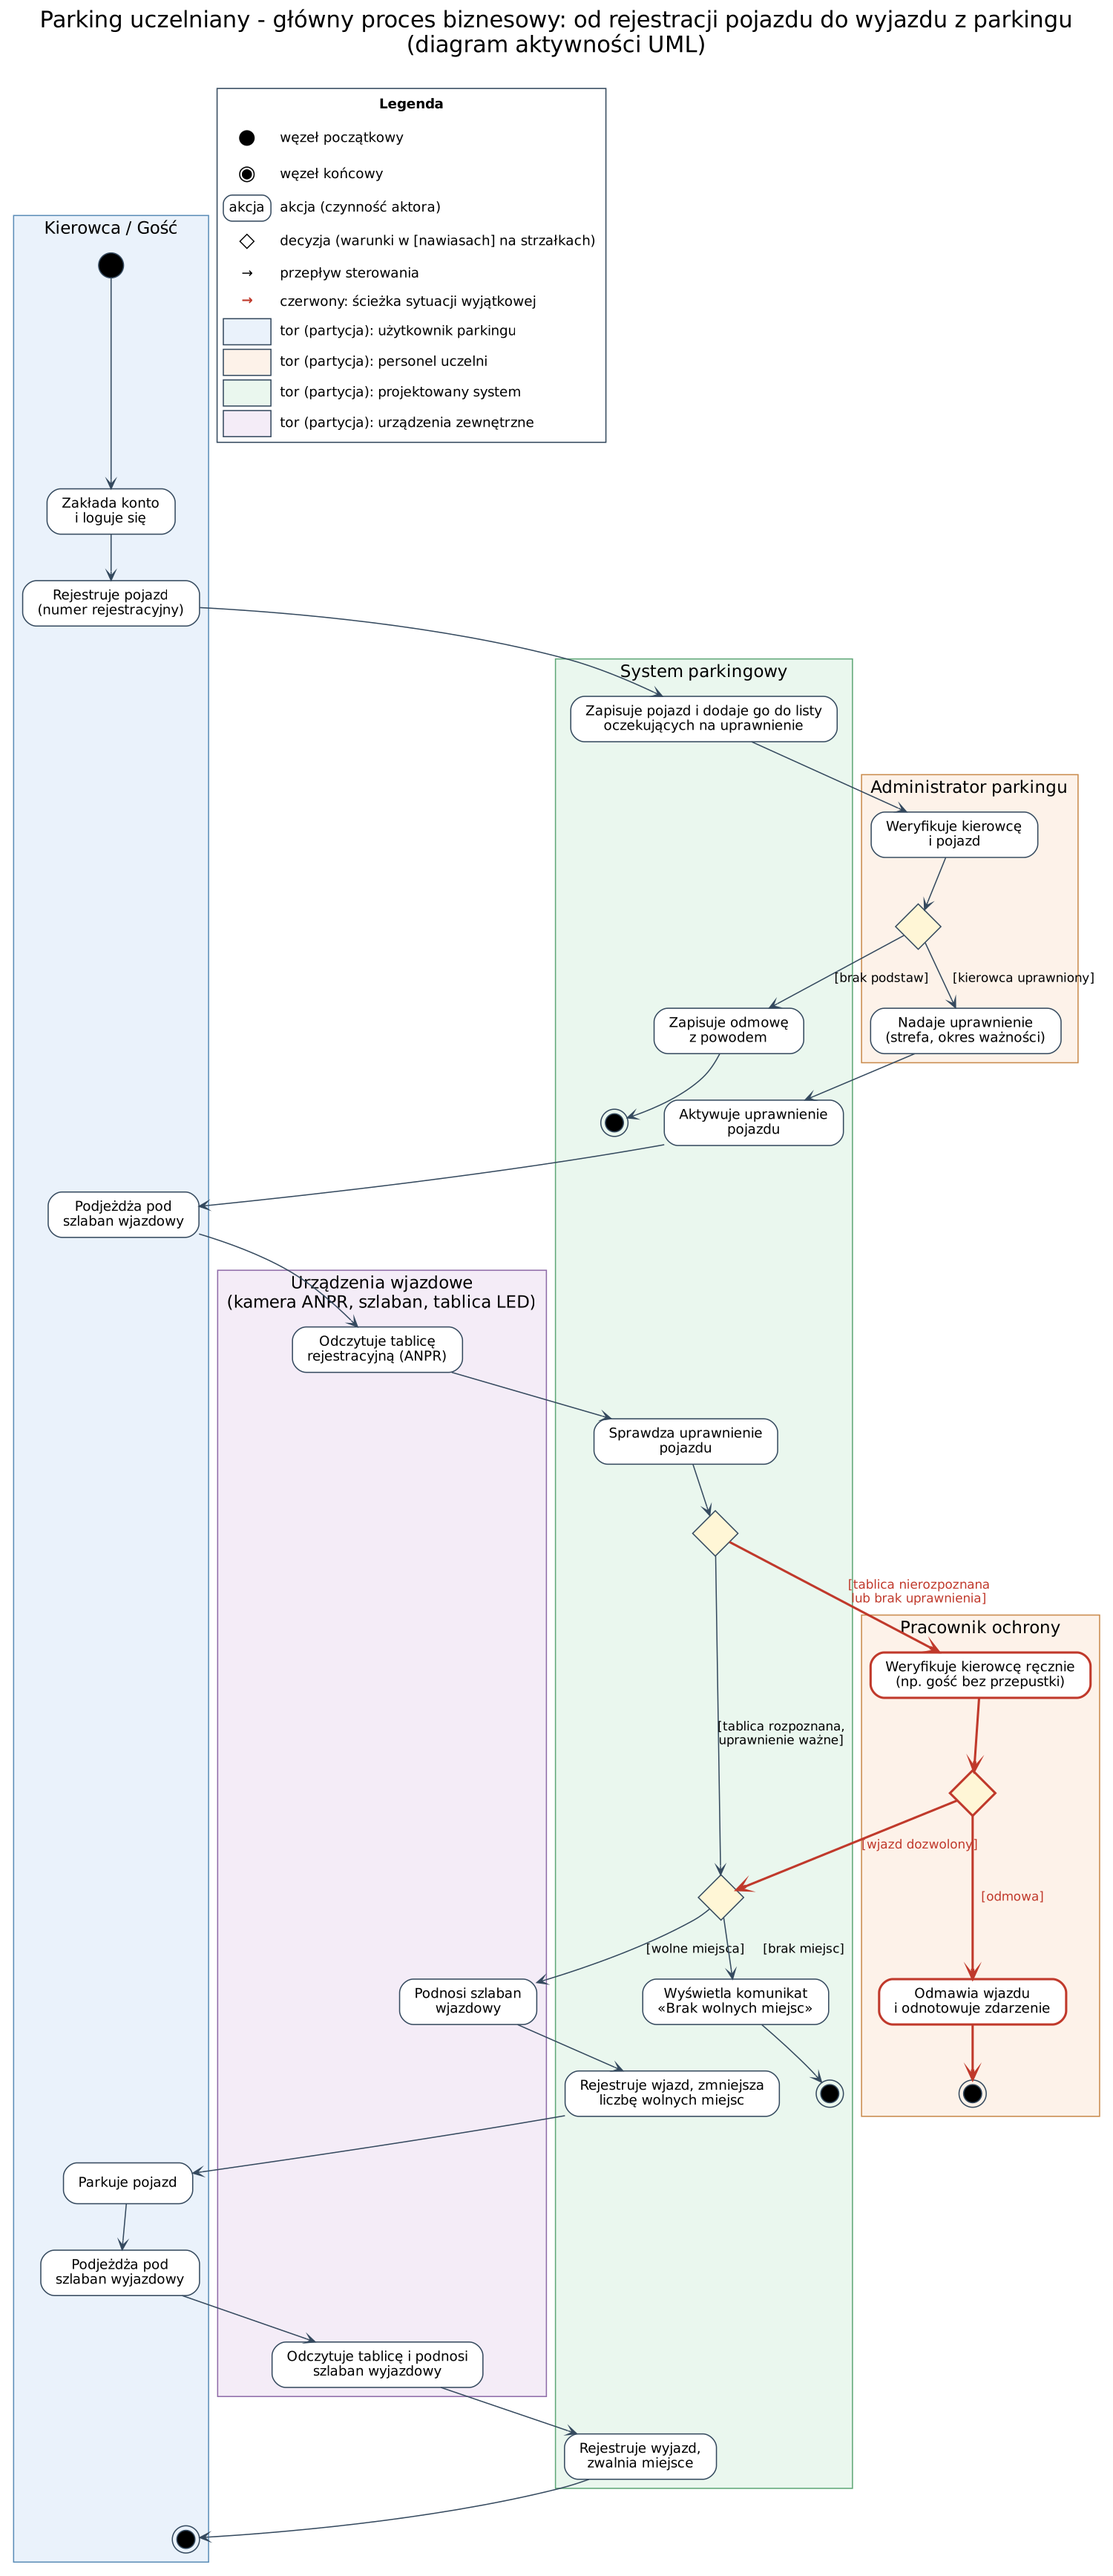
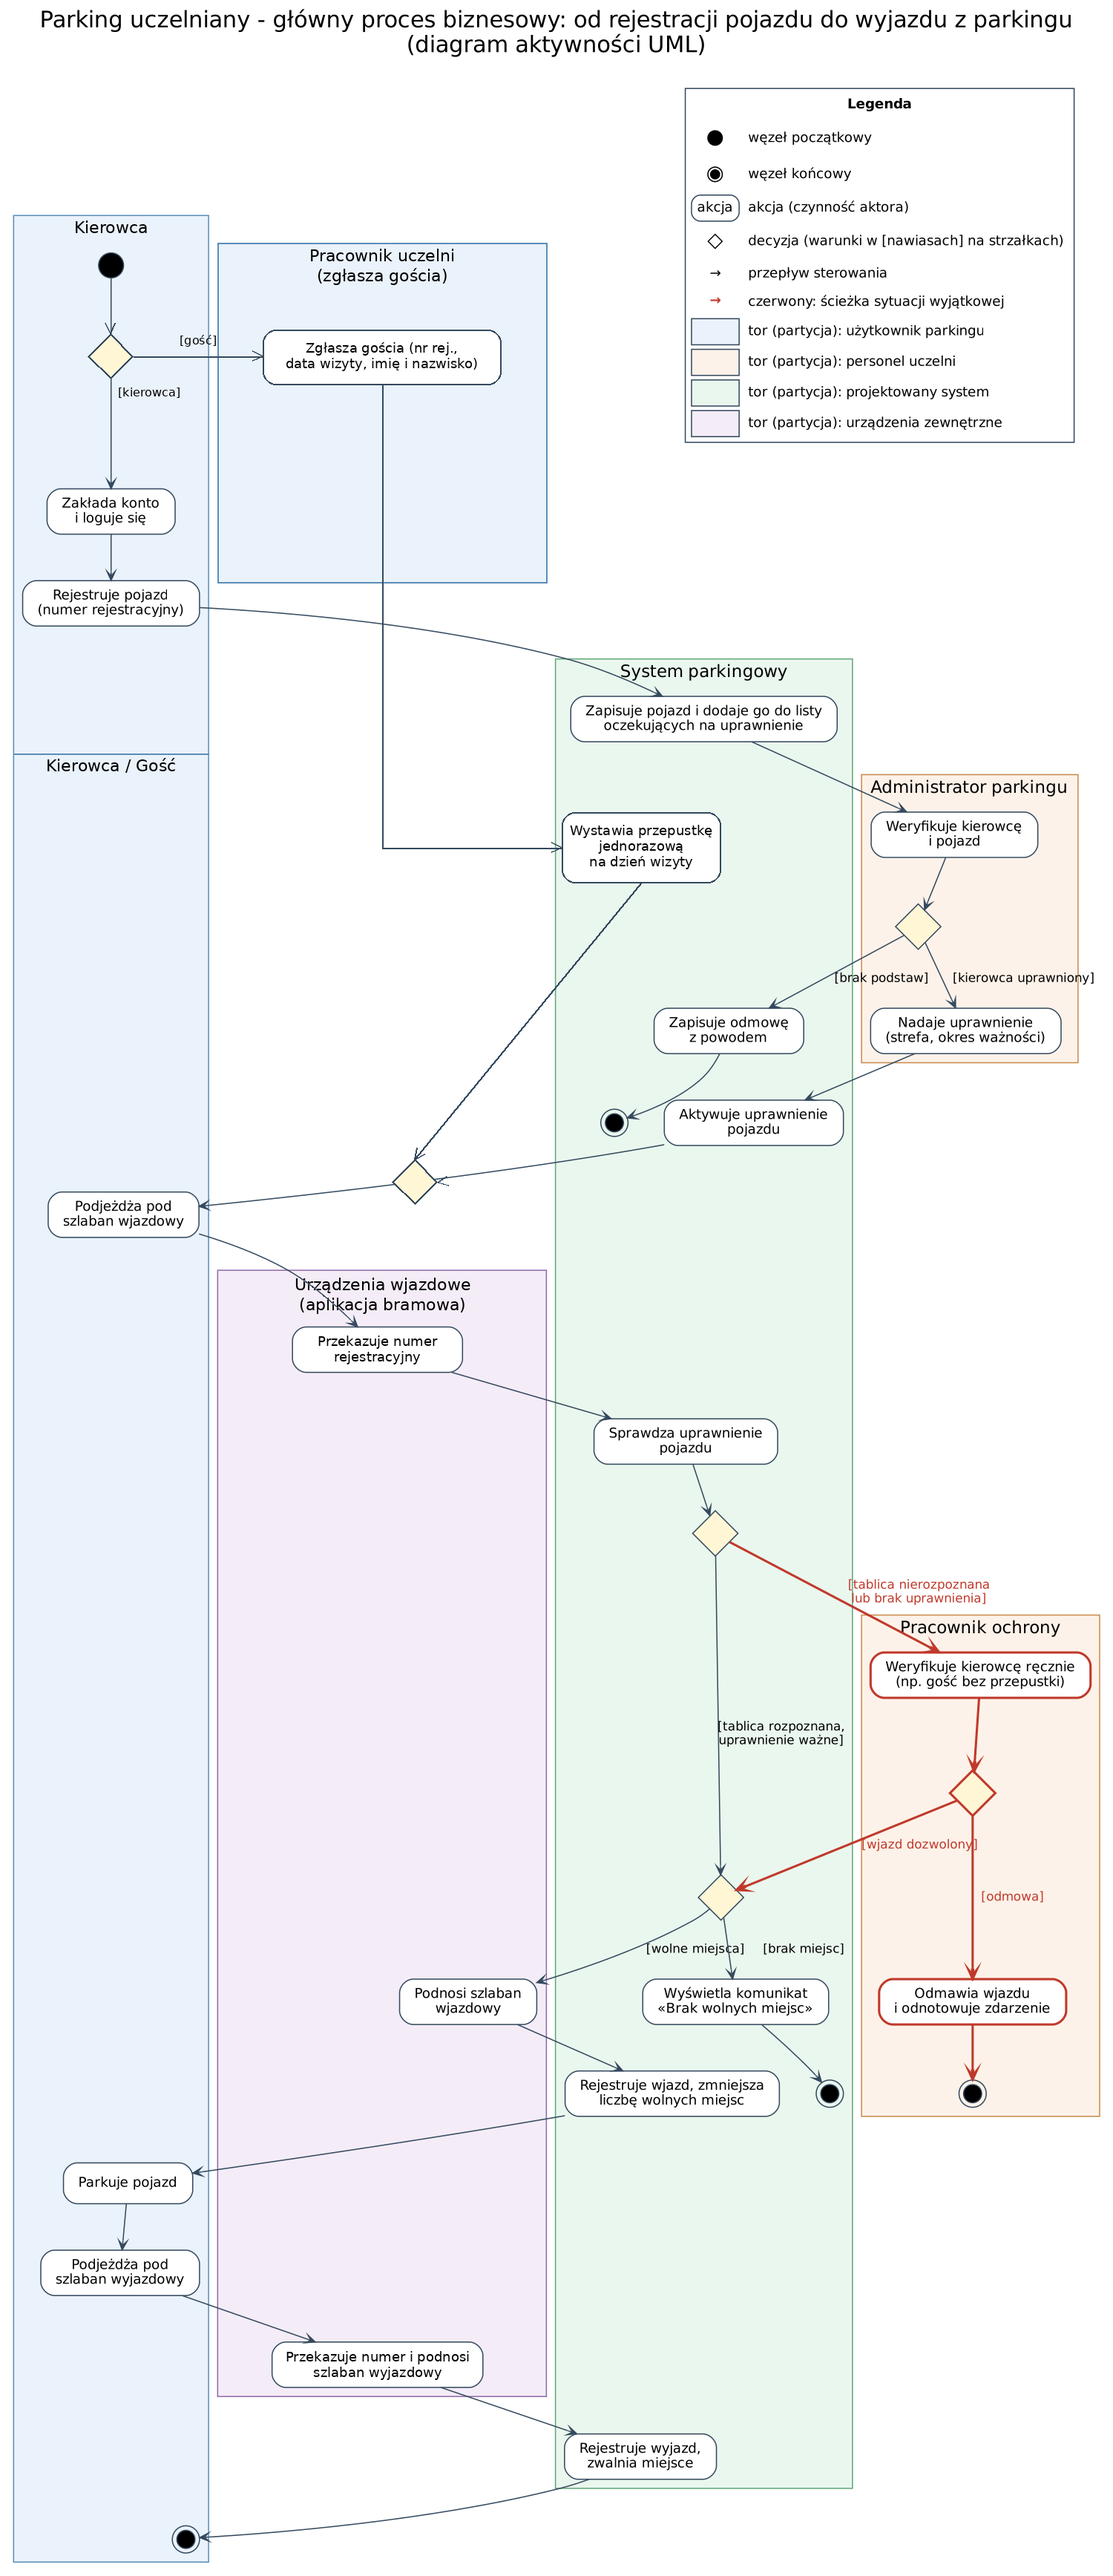
docs: poprawa modelu procesu - zgłoszenie gościa, tor Kierowca / Gość, aplikacja bramowa

diff --git a/docs/proces/README.md b/docs/proces/README.md
@@ -15,23 +15,30 @@ Legenda znajduje się również na samym diagramie.
 | Czarne koło | Węzeł początkowy |
 | Czarne koło w obwódce | Węzeł końcowy |
 | Prostokąt z zaokrąglonymi rogami | Akcja (czynność wykonywana przez aktora z danego toru) |
-| Romb | Decyzja - warunki (wartownicy) w [nawiasach] na strzałkach wychodzących |
+| Romb | Decyzja - warunki (wartownicy) w [nawiasach] na strzałkach wychodzących; romb z kilkoma strzałkami wchodzącymi to scalenie ścieżek |
 | Strzałka z otwartym grotem | Przepływ sterowania |
 | Kolor czerwony | Ścieżka sytuacji wyjątkowej |
-| Tor (partycja) niebieski | Użytkownik parkingu (kierowca, gość) |
+| Tor (partycja) niebieski | Użytkownik parkingu (kierowca, gość, pracownik uczelni zgłaszający gościa) |
 | Tor (partycja) pomarańczowy | Personel uczelni (administrator, ochrona) |
 | Tor (partycja) zielony | Projektowany system |
 | Tor (partycja) fioletowy | Urządzenia zewnętrzne |
 
 ## 2. Opis przebiegu
 
-**Etap 1 - uzyskanie uprawnienia**
+Na początku procesu decyzja rozdziela ścieżki: `[kierowca]` przechodzi przez etap 1, `[gość]` przez ścieżkę gościa. Obie ścieżki łączą się przed wjazdem (etap 2).
+
+**Etap 1 - uzyskanie uprawnienia (kierowca)**
 
 1. Kierowca zakłada konto i loguje się.
 2. Kierowca rejestruje pojazd, podając numer rejestracyjny.
 3. System zapisuje pojazd i dodaje go do listy oczekujących na uprawnienie.
 4. Administrator weryfikuje kierowcę i pojazd.
 5. Jeśli kierowca ma prawo parkować, administrator nadaje uprawnienie (strefa, okres ważności), a system je aktywuje. W przeciwnym razie system zapisuje odmowę z powodem i proces się kończy.
+
+**Ścieżka gościa - przepustka jednorazowa**
+
+- Pracownik uczelni zgłasza gościa, podając numer rejestracyjny, datę wizyty oraz imię i nazwisko gościa.
+- System wystawia przepustkę jednorazową ważną w dniu wizyty.
 
 **Etap 2 - wjazd**
 
@@ -49,6 +56,7 @@ Legenda znajduje się również na samym diagramie.
 
 | Decyzja | Tor | Warunek i dalszy przebieg | Warunek i dalszy przebieg |
 |---------|-----|---------------------------|---------------------------|
+| Rodzaj użytkownika | Kierowca | `[kierowca]` - założenie konta i rejestracja pojazdu (etap 1) | `[gość]` - zgłoszenie gościa przez pracownika uczelni i przepustka jednorazowa |
 | Wynik weryfikacji kierowcy | Administrator | `[kierowca uprawniony]` - nadanie uprawnienia | `[brak podstaw]` - zapis odmowy, proces się kończy |
 | Weryfikacja pojazdu przy wjeździe | System parkingowy | `[tablica rozpoznana, uprawnienie ważne]` - sprawdzenie wolnych miejsc | `[tablica nierozpoznana lub brak uprawnienia]` - **sytuacja wyjątkowa**, sprawę przejmuje ochrona |
 | Decyzja ochrony | Pracownik ochrony | `[wjazd dozwolony]` - powrót do głównej ścieżki | `[odmowa]` - proces się kończy |
@@ -63,7 +71,8 @@ Legenda znajduje się również na samym diagramie.
 | Aktor | Udział w procesie |
 |-------|-------------------|
 | Kierowca | Konto, rejestracja pojazdu, wjazd, postój, wyjazd |
-| Gość | Etapy 2 i 3 (bez etapu 1); wspólny tor z kierowcą |
+| Gość | Etapy 2 i 3 na podstawie przepustki jednorazowej (bez etapu 1); wspólny tor "Kierowca / Gość" |
+| Pracownik uczelni | Zgłoszenie gościa (ścieżka gościa) |
 | Pracownik ochrony | Obsługa sytuacji wyjątkowej przy wjeździe |
 | Administrator parkingu | Weryfikacja kierowcy i nadanie uprawnienia |
 | Urządzenia wjazdowe | Przekazanie numeru rejestracyjnego, podniesienie szlabanu (aplikacja bramowa na telefonie) |
